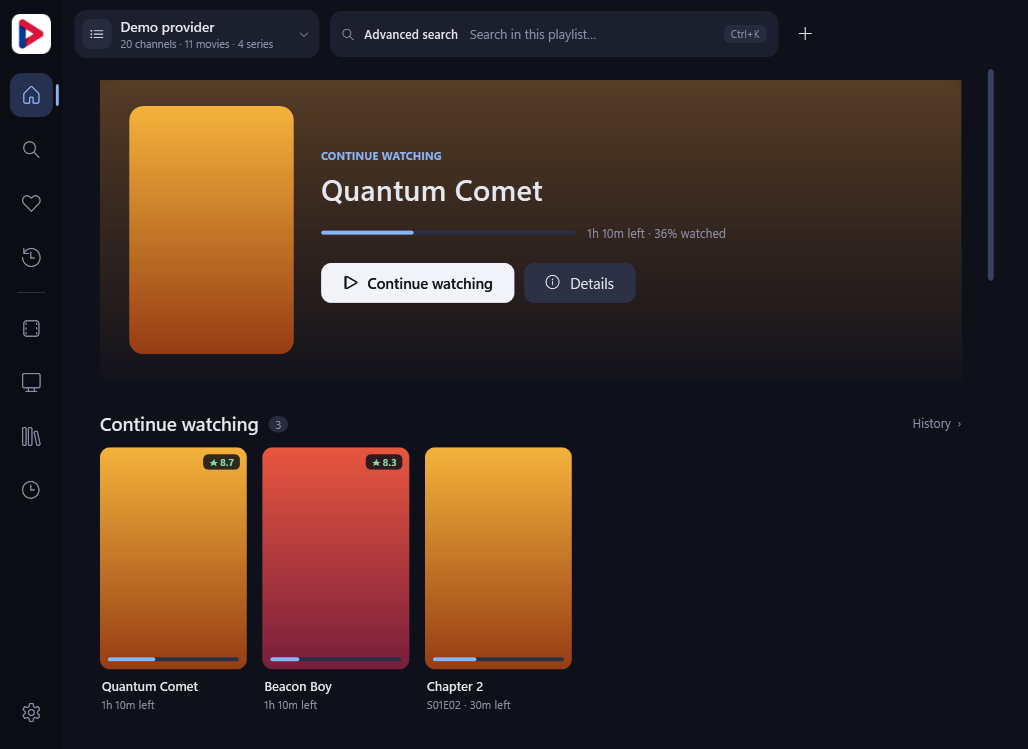
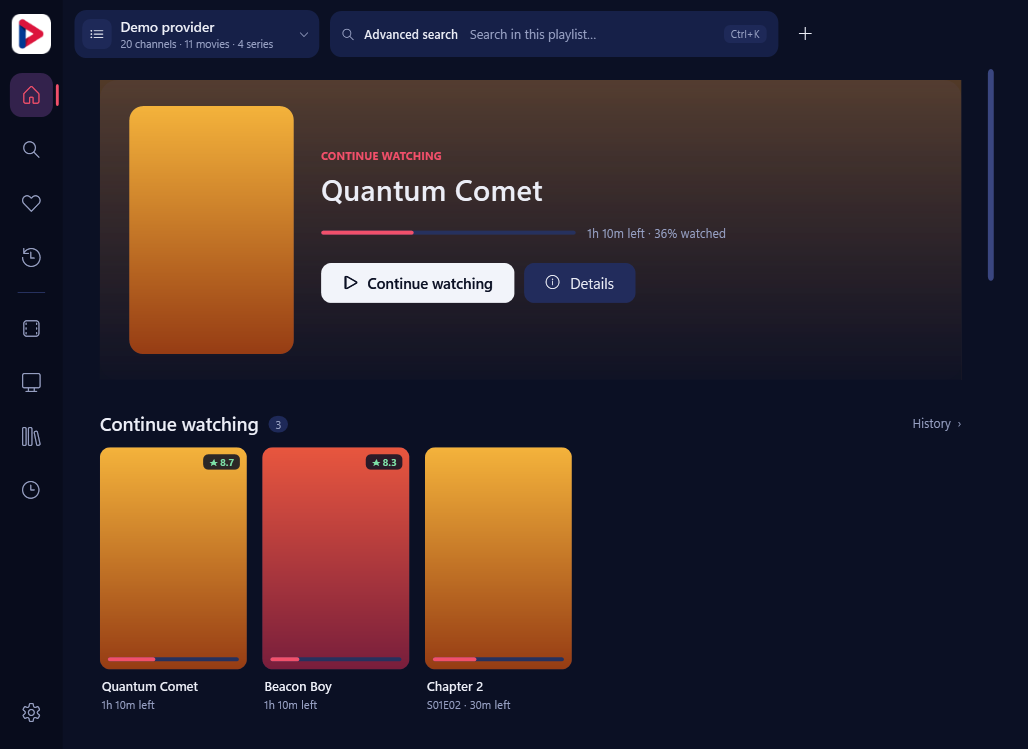
README: Navy & Crimson screenshots

diff --git a/README.md b/README.md
@@ -120,17 +120,17 @@ More platforms are on the way and will be released in future versions. The engin
 
 ## Screenshots
 
-|                                Android TV: Free TV by country (light theme)                                 |                         Android TV: Settings                          |
+|                                Android TV: Free TV by country (light theme)                                 |                         Android TV: Appearance                        |
 | :---------------------------------------------------------------------------------------------------------: | :-------------------------------------------------------------------: |
-|    ![Android TV: Free TV channels by country in the light theme](docs/screenshots/tv-countries-light.png)    |   ![Android TV: Settings](docs/screenshots/tv-settings.png)           |
+|    ![Android TV: Free TV channels by country in the light theme](docs/screenshots/tv-countries-light.png)    |   ![Android TV: Appearance settings in Navy & Crimson](docs/screenshots/tv-settings.png)           |
 |                                    Android TV: Custom theme colour picker                                   |                   Windows: Home with Continue watching                |
 |            ![Android TV: Custom theme colour picker](docs/screenshots/tv-custom-theme.png)                  |   ![Windows: Home with Continue watching](docs/screenshots/windows-home.png) |
 |                                Windows: Live TV with guide timeline                                         |                     Windows: Movies with sort and rating filter        |
 |          ![Windows: Live TV with now/next and guide timeline](docs/screenshots/windows-live.png)            |   ![Windows: Movies grid](docs/screenshots/windows-movies.png)        |
 |                                Windows: Series with seasons and episodes                                    |                     Windows: Search across everything                  |
 |            ![Windows: Series details with seasons](docs/screenshots/windows-series.png)                     |   ![Windows: Search](docs/screenshots/windows-search.png)             |
-|                                Windows: Light theme                                                         |                                                                       |
-|               ![Windows: Light theme](docs/screenshots/windows-light.png)                                   |                                                                       |
+|                                Windows: Light theme                                                         |                     Windows: Custom theme (Teal)                      |
+|               ![Windows: Light theme](docs/screenshots/windows-light.png)                                   |   ![Windows: Custom theme built from Teal](docs/screenshots/windows-custom.png) |
 
 _Windows screenshots use made-up demo data rendered by CI._
 
